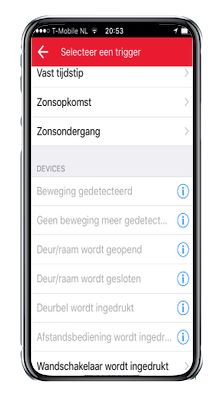
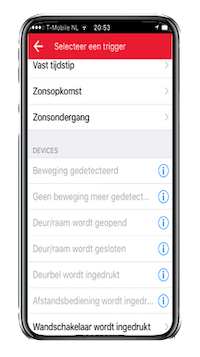
Plaatjes aangepast tbv print

diff --git a/slides.md b/slides.md
@@ -232,8 +232,8 @@ Overgeleverd aan een leverancier of zelf in controle?
 
 |                                                |                                              |                                                  |                                  |
 | :--------------------------------------------: | :------------------------------------------: | :----------------------------------------------: | :------------------------------: |
-| ![KAKU schakelaar](images/kaku-schakelaar.png) | ![KAKU bediening](images/kaku-bediening.png) | ![KAKU Control Station](images/kaku-octopus.png) | ![KAKU app](images/kaku-app.png) |
-|                    **Lamp**                    |                **Bediening**                 |               **Control Station**                |             **App**              |
+| ![KAKU schakelaar](images/kaku-stopcontact.png) | ![KAKU bediening](images/kaku-bediening.png) | ![KAKU Control Station](images/kaku-octopus.png) | ![KAKU app](images/kaku-app.png) |
+|                    **Stopcontact**                    |                **Bediening**                 |               **Control Station**                |             **App**              |
 
 note:
 
@@ -448,7 +448,6 @@ note:
 [Tuya-Convert (C'T)](https://www.heise.de/ct/artikel/Tuya-Convert-Escaping-the-IoT-Cloud-no-solder-needed-4284830.html)
 
 [Tasmota templates](https://templates.blakadder.com)
-
 
 ---
 
